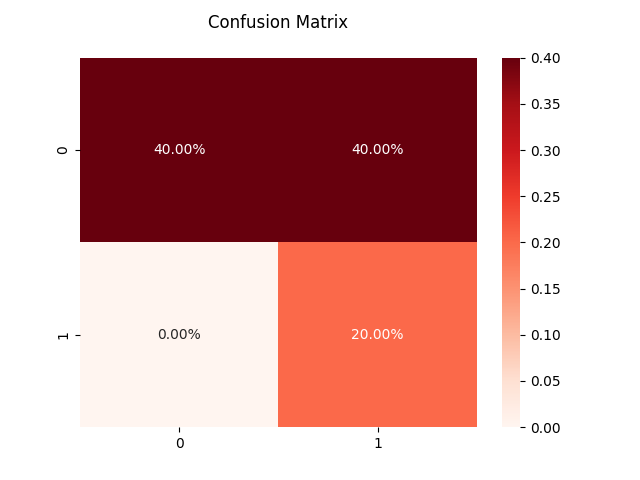
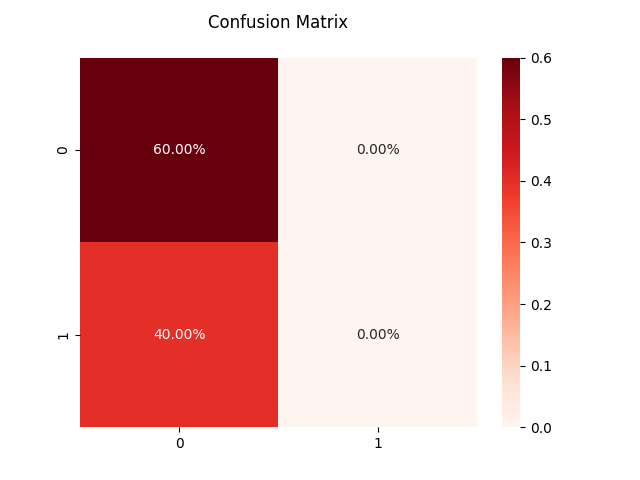
General Improvements
Corrections made to environment.yaml libraries and environment/README.md.
Changed the hyperparameters for the NNModel. Changed numpy to Cupy to load data faster with GPU support.

diff --git a/NNModel/black_box.py b/NNModel/black_box.py
@@ -1,6 +1,7 @@
 from calendar import c
 import os
-import numpy as np
+#import numpy as np
+import cupy as np
 import tensorflow as tf
 from numpy import loadtxt
 from tensorflow import keras
@@ -22,17 +23,6 @@ def load_data():
     """ 
     #data = np.genfromtxt("tmp/data.csv", delimiter=",")
 
-    csv_type = [
-    ('dist', np.float64), 
-    ('omega', np.float64), 
-    ('theta', np.float64), 
-    ('phi', np.float64),
-    ('ssbond', np.int32),
-    ('chain1', (np.str_,1)),
-    ('res1', np.int32),
-    ('chain2', (np.str_,1)),
-    ('res2', np.int32)
-    ]
     cwd = os.getcwd()
     cwd = cwd[:len(cwd) - 8]
     rich_ss_fp = "/Data/Rich_SS/"
@@ -43,8 +33,6 @@ def load_data():
 
     for i in rich_ss:
         pdb_data = np.genfromtxt(cwd + rich_ss_fp + i, delimiter=",")
-        #pdb_data = np.loadtxt(cwd + rich_ss_fp + i, dtype=csv_type, delimiter=',')
-        #print(i, str(pdb_data.shape) + "\n")
         if pdb_data.shape == (9,):
             pdb_data = np.array([pdb_data])
         data = np.append(data,pdb_data,axis=0)
@@ -64,8 +52,24 @@ def load_data():
 
     print(features.shape, labels.shape)
 
-    return [features, labels]
+    return [features.get(), labels.get()]
 
+def test_load_data():
+    data = np.genfromtxt("tmp/data.csv", delimiter=",")
+    features = np.copy(data[:, 0:4])
+    
+    # preprocessing
+    features[:, 0] = features[:, 0] / 20.0
+    features[:, 1] = features[:, 1] / np.pi
+    features[:, 2] = features[:, 2] / np.pi
+    features[:, 3] = features[:, 3] / np.pi
+    
+
+    labels = np.copy(data[:, 4])
+
+    print(features.shape, labels.shape)
+
+    return [features.get(), labels.get()]
 
 """
 TODO:
@@ -73,7 +77,7 @@ TODO:
     - AdaMax Optimizer
     - AdaGrad Optimizer
 """
-def neural_network(data, batchNormalize=True, learning_rate=0.0001, batch_training=False, activation_function='ReLU'):
+def neural_network(data, batchNormalize=True, learning_rate=0.00001, batch_training=False, activation_function='ReLU'):
     """ Neural Network Model """
 
     # load the data in.
@@ -88,14 +92,18 @@ def neural_network(data, batchNormalize=True, learning_rate=0.0001, batch_traini
 
     # Hyperparameters:
     num_epochs = 25
-    batch_size = 100
+    #batch_size = 100
+    batch_size = 50
+    
     if batch_training:
         num_epochs = 1
         batch_size = 1
 
     eta = learning_rate
     decay_factor = 0.95
-    size_hidden = 500 # nodes per layer
+    #size_hidden = 500 # nodes per layer
+    size_hidden = 250
+
 
     # static parameters
     size_input = 4 # number of features

diff --git a/NNModel/init.py b/NNModel/init.py
@@ -1,4 +1,4 @@
-from black_box import neural_network, load_data, save_model
+from black_box import neural_network, load_data, save_model, test_load_data
 from util.helper import dataset_split, feature_scaling
 import util.graphs as graphs
 
@@ -17,7 +17,8 @@ YF = Yes Feature scaling
 def main():
 
     # load and split data
-    dataset = load_data()
+    dataset = test_load_data()
+    # dataset = load_data()
     feature_scaled_dataset = feature_scaling(dataset) # normalize the data with feature scaling formula
     split_data = dataset_split(feature_scaled_dataset[0], feature_scaled_dataset[1])
 
@@ -31,7 +32,8 @@ def main():
     eta_t_loss = []
 
     # 0
-    YBYF001 = neural_network(split_data, True, learning_rate=0.001)
+    YBYF001 = neural_network(split_data, True, learning_rate=0.00001)
+    #YBYF001 = neural_network(split_data, True, learning_rate=0.001)
     save_model(YBYF001[3], "Model001_510")
     
     eta_v_loss.append(YBYF001[0].history['val_loss'][0])

diff --git a/Environment/README.md b/Environment/README.md
@@ -13,7 +13,11 @@ The Anaconda Version used in cluster is 4.10.3
 https://towardsdatascience.com/how-to-export-and-load-anaconda-environments-for-data-science-projects-77dc3b781369
 #### Export
 ```
-conda env export > \Users\Dario\Desktop\environment.yml
+Linux:
+conda env export --no-builds | grep -v "prefix" > environment.yml
+
+Windows:
+conda env export --no-builds | findstr -v "prefix" > environment.yml
 ```
 you can change the new enviroment name at the fist line of the yaml file
 ```
@@ -22,7 +26,7 @@ name: tf
 #### Load
 ##### command for load the environment (use under the conda envirment/terminal)
 ```
-conda env create -f \Users\Dario\Desktop\environment.yml
+conda env create -f environment.yml
 ```
 
 </p>
